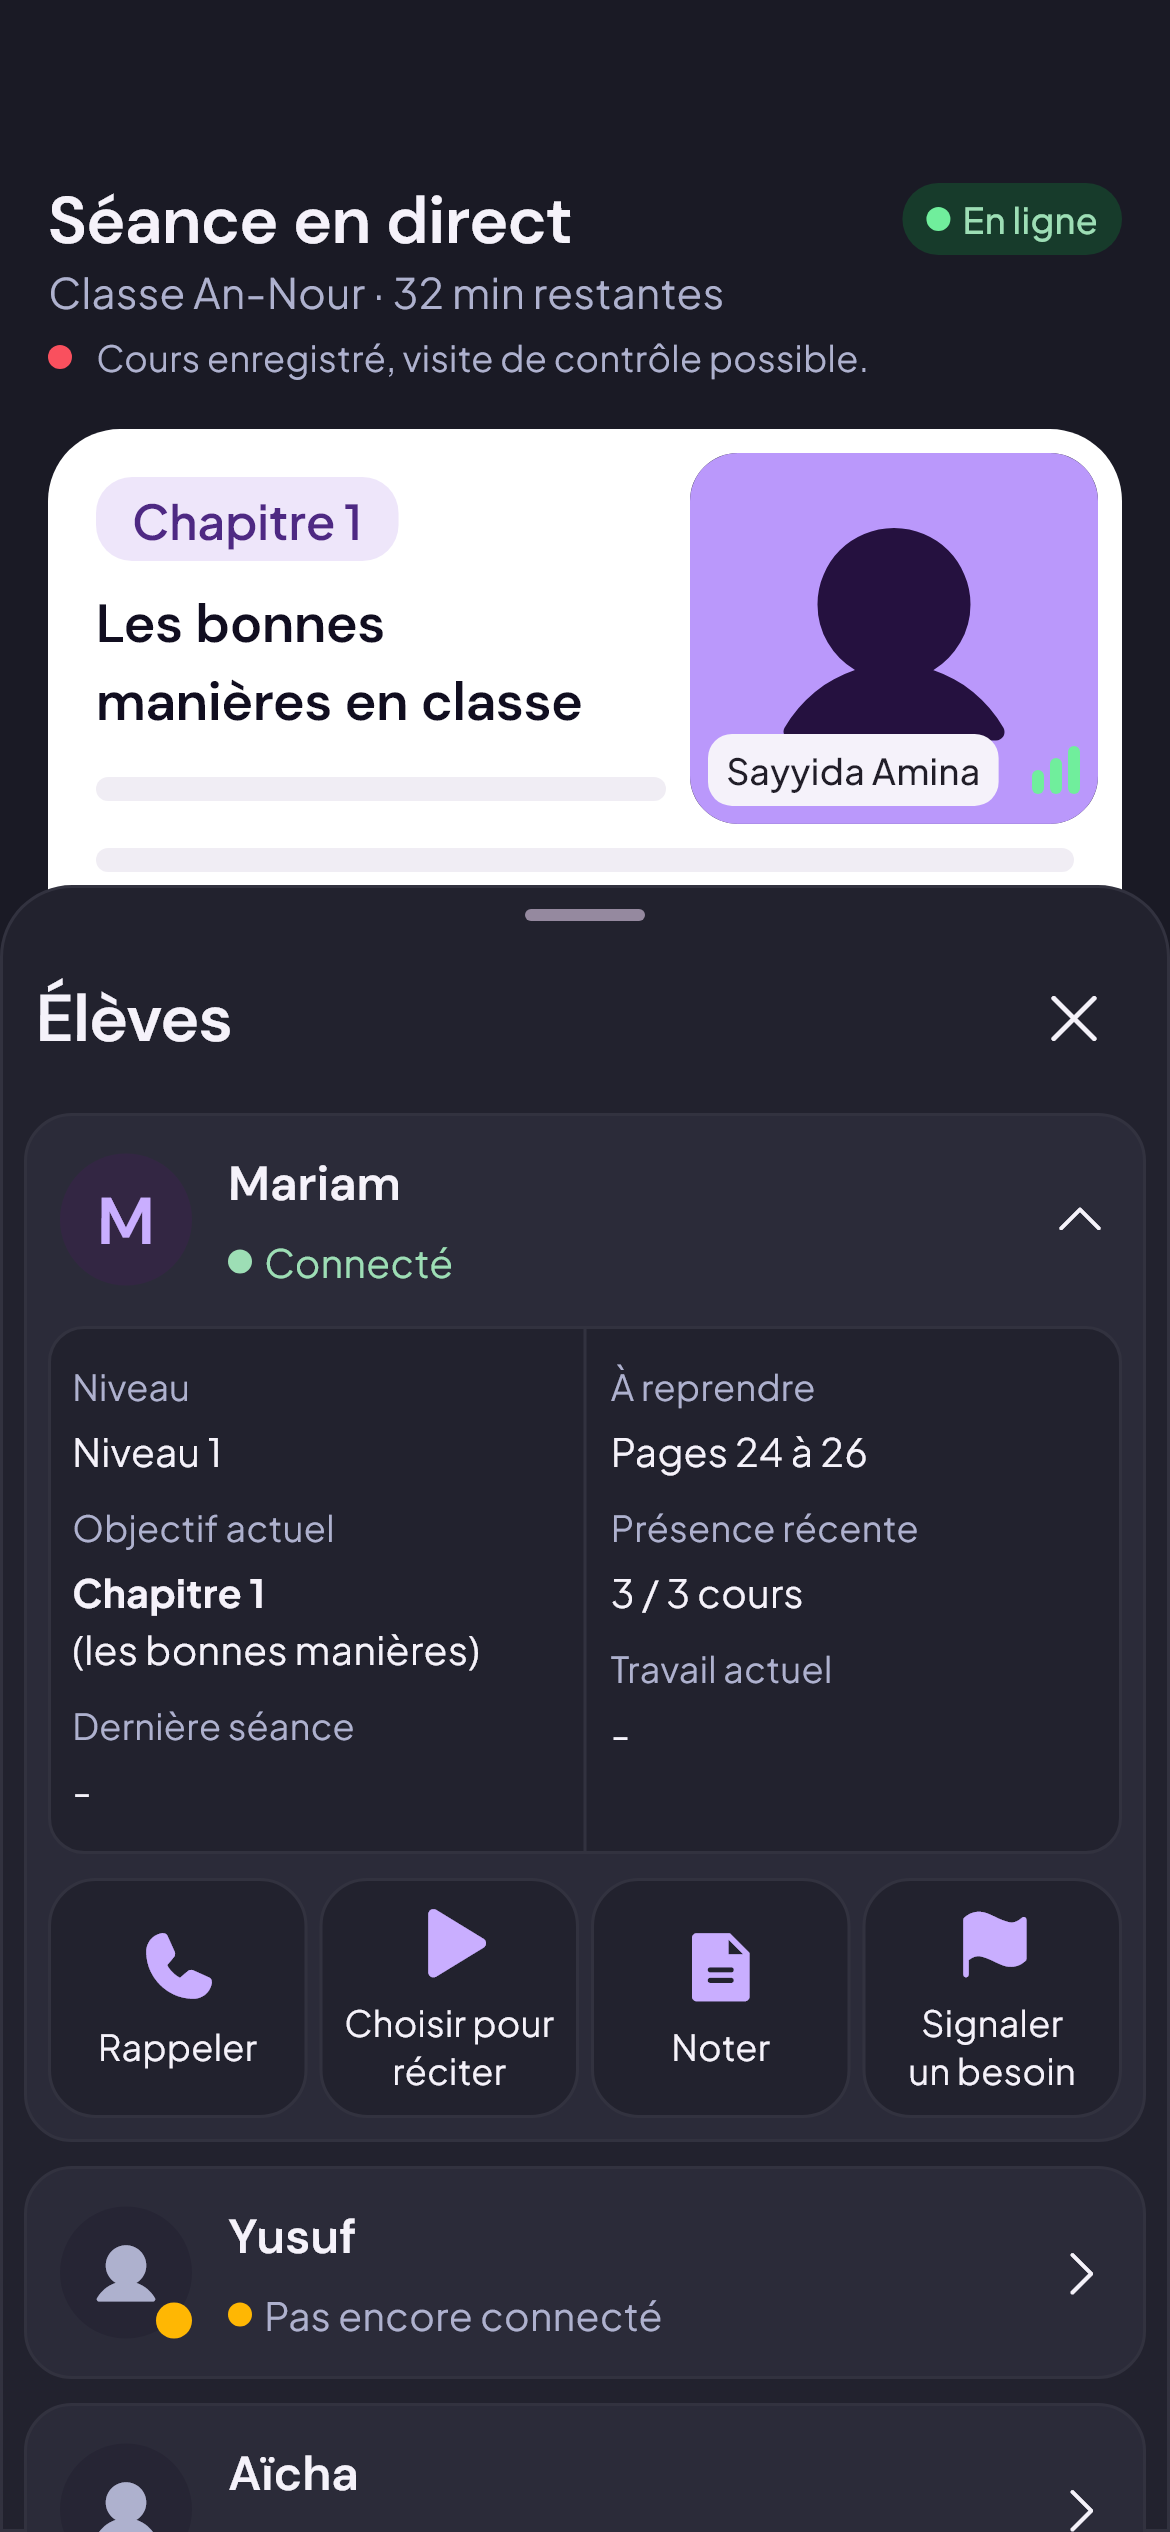
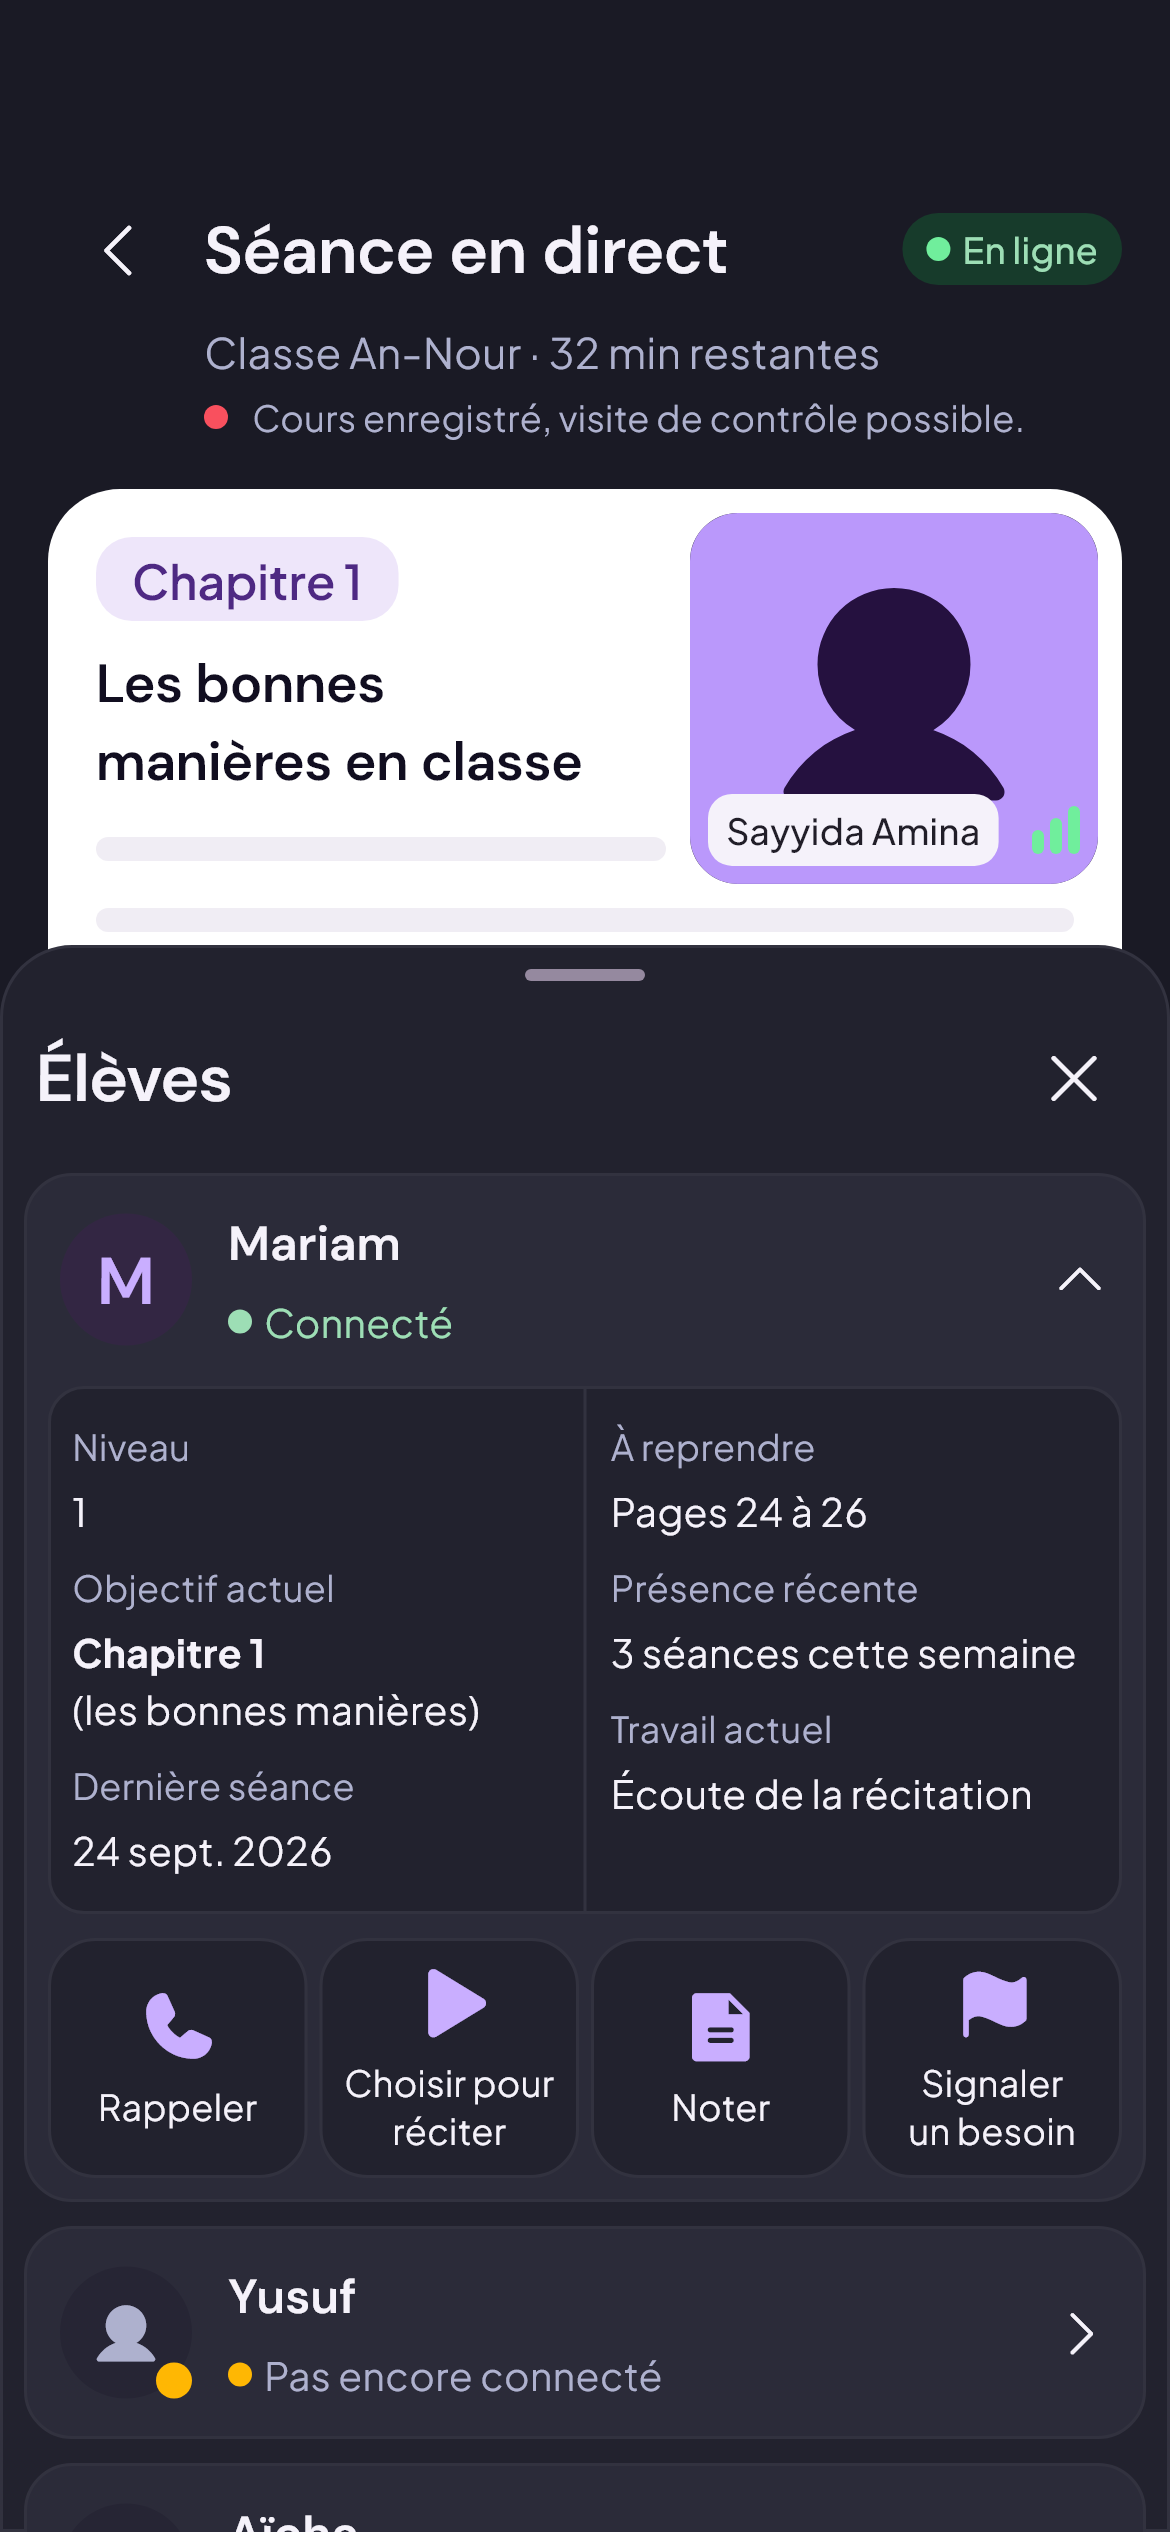
recette(T8): captures /tc/classe (4 rôles) et retours de relecture

diff --git a/05_recette/CL/T8.md b/05_recette/CL/T8.md
@@ -29,3 +29,12 @@ Date : 26/09/2026. Commit `85a900b` sur `ui/classe-v1`. Correspond à la fiche *
 - `/salle` ne connaît pas le titre Sayyid/Sayyida (BR-1) : le test « mêmes textes » utilise un enseignant sans titre.
 - Pagination affichée « 1 / 12 » avec flèches sans effet tant que le support n'est pas câblé (comme T4).
 - Le rendu en séance de `/salle` (fiche T8 du plan) reste à faire.
+
+## Retours de relecture corrigés (code 8a5fa8d)
+
+- En-tête CLV-06/07 : chevron retour (route ouverte par `go` : retour au Groupe sans quitter), cloche, réglages, flèche du compte.
+- Fiche : Niveau « 1 », Dernière séance « 24 sept. 2026 », « 3 séances cette semaine », Travail actuel « Écoute de la récitation » (consigne, sinon intention).
+- Panneau Élèves desktop : menu « … », colonne arrêtée après la liste, largeur 328 (support ≈ 504, comme l'image).
+- Rôles : captures `cl_04_eleve_tc` et `cl_05_guidee_tc` ; test élève standard et guidée sans Élèves, Supports, Réseau, outils ni pagination active.
+- Reste : le titre du support CLV-07 desktop reste sur 3 lignes. Les proportions sont celles de l'image ; la police du dépôt est plus large que celle de l'image. Pour tenir en 2 lignes, il faudrait réduire le titre d'environ un quart, ce qui a été essayé puis retiré. À trancher en T10.
+- Reste : « cette semaine » suppose que `recentAttendance` couvre la semaine en cours ; à garantir côté serveur en BR-1.
